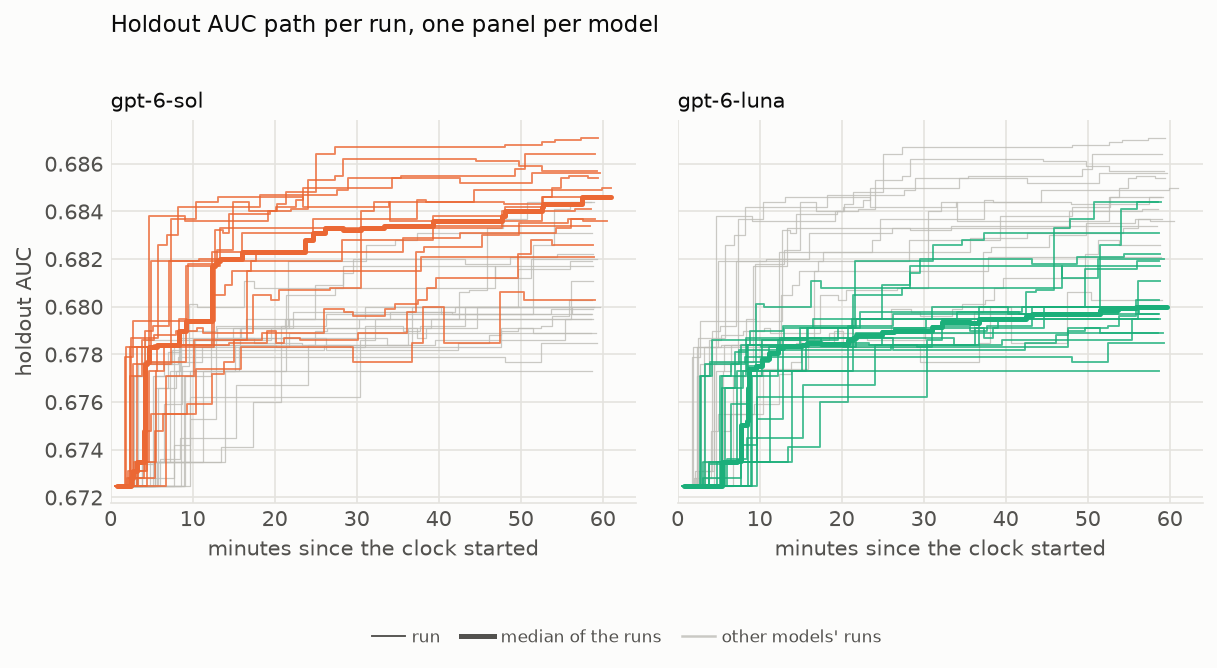
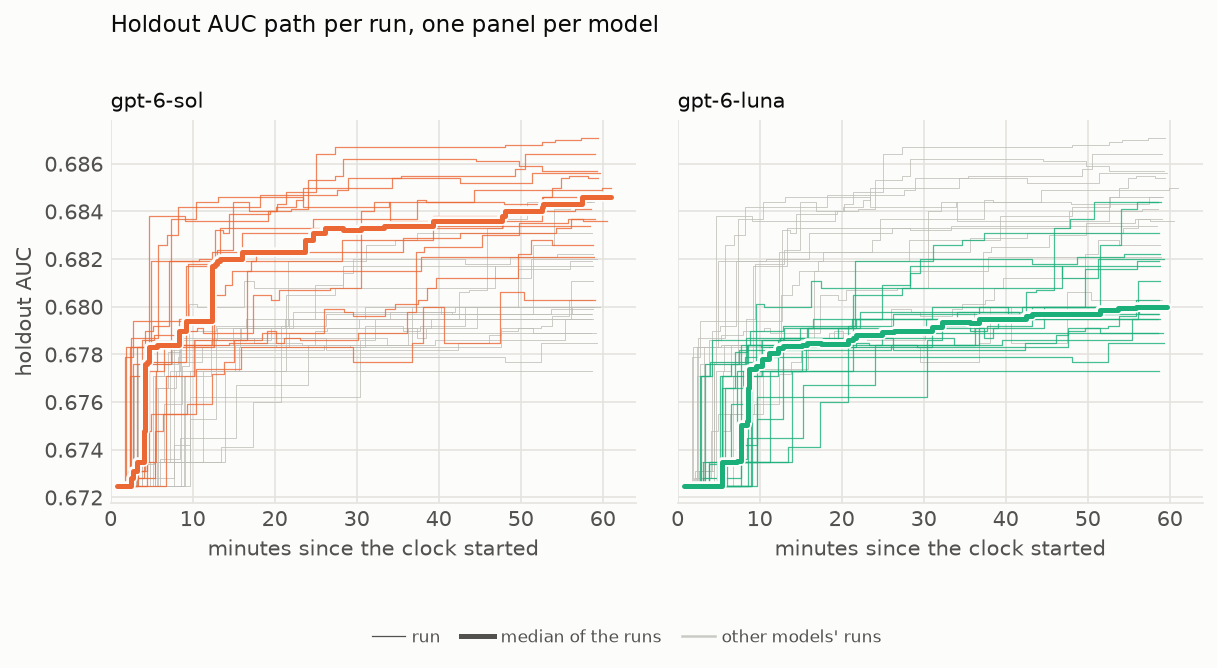
Panels path plot: thinner run lines, outlined median
The runs are drawn at 0.6 pt (other models' at 0.45 pt) so they separate
where they were merging, and the median gets an edge in the surface colour
to stand clear of the runs it crosses.

diff --git a/tools/plot_holdout_auc.py b/tools/plot_holdout_auc.py
@@ -23,8 +23,9 @@ median ends at the median of the runs' last kept models. Models with fewer than
 MIN_N_PATH runs get no median.
 
 run-multi/SUMMARY/holdout_auc_path_panels.png - small multiples, one panel per
-  model on shared axes: its runs as thin lines, their median path in bold, the
-  other models' runs faint grey behind.
+  model on shared axes: its runs as thin lines, their median path in bold
+  (outlined, to stand clear of the runs it crosses), the other models' runs
+  faint grey behind.
 
 run-multi/SUMMARY/holdout_auc_path_median.png - one panel: all runs as thin
   faded lines, the median path per model in bold.
@@ -41,6 +42,7 @@ from pathlib import Path
 import matplotlib
 
 matplotlib.use("Agg")
+import matplotlib.patheffects as pe
 import matplotlib.pyplot as plt
 import numpy as np
 from matplotlib.lines import Line2D
@@ -258,11 +260,13 @@ def draw_runs(ax, runs, colour_of, lw, alpha):
                 lw=lw, alpha=alpha, ls=(0, (4, 2)) if r["marked"] else "-", zorder=2)
 
 
-def draw_median(ax, runs, m, colour, lw=2.4):
+def draw_median(ax, runs, m, colour, lw=2.4, outline=False):
     if sum(r["model"] == m for r in runs) < MIN_N_PATH:
         return
     t, median = median_path(runs, m)
-    ax.step(t, median, where="post", color=colour, lw=lw, zorder=4, solid_capstyle="round")
+    # outline: an edge in the surface colour, so the median stands clear of the runs it crosses
+    effects = [pe.Stroke(linewidth=lw + 2.2, foreground=SURFACE), pe.Normal()] if outline else None
+    ax.step(t, median, where="post", color=colour, lw=lw, zorder=4, solid_capstyle="round", path_effects=effects)
 
 
 def path_panels(runs, colour):
@@ -272,9 +276,9 @@ def path_panels(runs, colour):
     axes = np.atleast_1d(axes)
     fig.subplots_adjust(bottom=0.24, top=0.82, left=0.07, right=0.98, wspace=0.08)
     for ax, m in zip(axes, models):
-        draw_runs(ax, [r for r in runs if r["model"] != m], lambda r: OTHER_RUNS, lw=0.6, alpha=0.8)
-        draw_runs(ax, [r for r in runs if r["model"] == m], lambda r: colour[m], lw=0.9, alpha=0.8)
-        draw_median(ax, runs, m, colour[m])
+        draw_runs(ax, [r for r in runs if r["model"] != m], lambda r: OTHER_RUNS, lw=0.45, alpha=0.8)
+        draw_runs(ax, [r for r in runs if r["model"] == m], lambda r: colour[m], lw=0.6, alpha=0.8)
+        draw_median(ax, runs, m, colour[m], outline=True)
         ax.grid(color=GRID, lw=0.8)
         ax.set_xlim(left=0)
         style(ax, "")
@@ -284,8 +288,8 @@ def path_panels(runs, colour):
     fig.suptitle("Holdout AUC path per run, one panel per model", x=0.07, ha="left", color=INK, fontsize=11)
     caveat = marked_label(runs)
     legend = [
-        Line2D([], [], color=INK2, lw=0.9, label="run"),
-        *([Line2D([], [], color=INK2, lw=0.9, ls=(0, (4, 2)), label=caveat)] if caveat else []),
+        Line2D([], [], color=INK2, lw=0.6, label="run"),
+        *([Line2D([], [], color=INK2, lw=0.6, ls=(0, (4, 2)), label=caveat)] if caveat else []),
         Line2D([], [], color=INK2, lw=2.4, label="median of the runs"),
         Line2D([], [], color=OTHER_RUNS, alpha=0.8, lw=1.2, label="other models' runs"),
     ]
